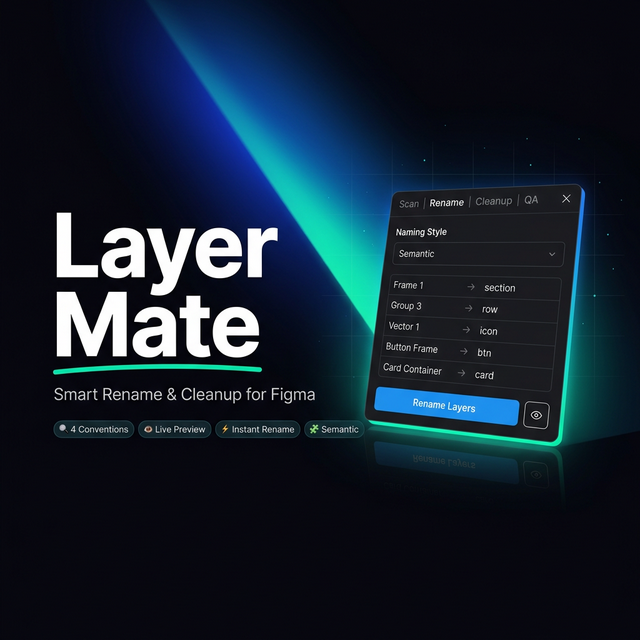
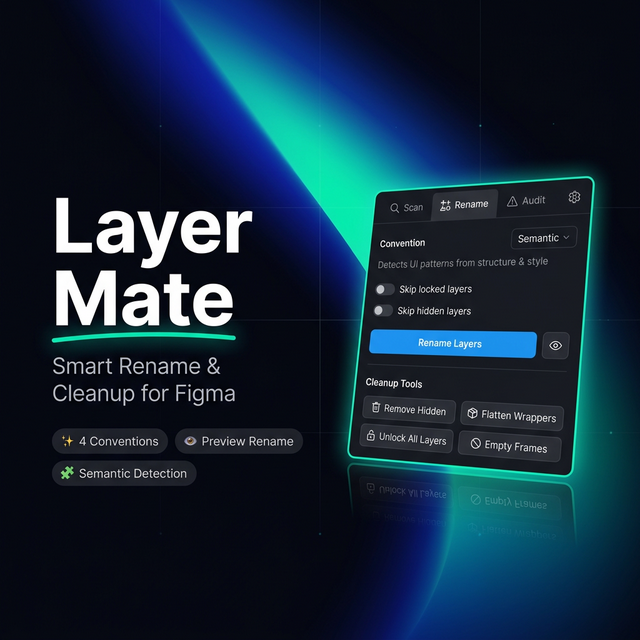
docs: accurate README + cover matching real UI
README fixes:
- Was: 4 tabs (Scan/Rename/Cleanup/QA) → Now: 3 tabs (Scan/Rename/Audit)
- Was: separate Cleanup tab → Now: Cleanup Tools inside Rename tab
- Was: 'QA Tab' → Now: 'Audit Tab' matching actual UI label
- Was: 'click Preview Rename big button' → Now: 'Rename Layers' is primary, 👁 is icon
- Added Filters section (Skip locked, hidden, Only rename defaults)
- Added Cleanup Tools table with all 4 buttons
- Added documentAccess technical detail

cover.png: regenerated to match actual UI (3 tabs, correct buttons,
Cleanup Tools grid visible, accurate convention dropdown)

diff --git a/README.md b/README.md
@@ -8,76 +8,98 @@
 
 ## 🎯 What It Does
 
-**Layer Mate** gives you 4 powerful tools in one compact panel:
+**Layer Mate** has 3 tabs + a Settings panel:
 
 | Tab | What It Does |
 |-----|-------------|
-| 🔍 **Scan** | Instant file health check — counts hidden, locked, unnamed & empty layers |
-| ✏ **Rename** | Smart layer renaming with 4 naming conventions + live Preview Rename |
-| 🧹 **Cleanup** | One-click removal of hidden layers, empty frames & redundant wrappers |
-| ✅ **QA** | Contrast audit, small fonts, touch targets & a visual health score |
+| 🔍 **Scan** | File health check — counts hidden, locked, unnamed & empty layers |
+| ✏ **Rename** | 4 naming conventions, Preview Rename, and Cleanup Tools |
+| 🛡 **Audit** | Contrast, small fonts, touch targets, detached colors & health score |
 
 ---
 
-## ✏ Naming Conventions
+## ✏ Rename Tab
 
-### 🧹 Auto Clean *(default)*
-Depth-based structural names — great for general cleanup.
+### Naming Conventions
+
+Choose from 4 conventions in the **Convention** dropdown:
+
+#### 🧹 Auto Clean *(default)*
+Depth-based structural names — smart cleanup for any file.
 ```
 Frame 1   →  item
 Group 3   →  container
 Section   →  section
-Page root →  block
 ```
 
-### 🤝 Dev Ready
-HTML semantic names — maps layers directly to web elements, perfect for developer handoff.
+#### 🤝 Dev Ready
+HTML semantic names — maps layers to web elements for developer handoff.
 ```
-Horizontal frame     →  nav/bar
-Full-width section   →  section/hero
-Vector shape         →  icon/close
-Image fill frame     →  img/banner
+Horizontal frame   →  nav
+Full-width section →  section
+Vector shape       →  icon
+Image fill frame   →  img
 ```
 
-### 📚 Library
-Figma slash notation — auto-groups variants for component libraries.
+#### 📚 Library
+Figma slash notation — groups variants for component libraries.
 ```
 ButtonPrimary  →  Button / Primary
 CardHero       →  Card / Hero
 ```
 
-### 🧩 Semantic *(new)*
-Detects real UI patterns from structure, shadow, stroke, and content — names that both designers and developers already know.
+#### 🧩 Semantic
+Detects real UI patterns from structure, shadows, strokes, and fills.
 
 | Layer structure | Name |
 |---|---|
 | Horizontal top-level frame | `top-bar` |
 | Narrow vertical frame | `side-panel` |
-| VECTOR node | `icon` |
+| VECTOR / shape node | `icon` |
 | Circle + image fill | `avatar` |
 | Small pill-shaped frame | `badge` |
-| Frame with drop shadow + image + content | `card` |
-| Frame with shadow, small, rounded | `popup` |
-| Bordered + large + rounded | `panel` |
-| Frame with fill + padding + short text | `btn` |
-| Same, with shadow | `cta-btn` |
+| Frame + shadow + image + content | `card` |
+| Frame + shadow, small, rounded | `popup` |
+| Frame + fill + padding + short text | `btn` |
 | Stroke + empty + short height | `input` |
 | Horizontal group | `row` |
 | Vertical group | `stack` |
 
 ---
 
-## 👁 Preview Rename
+### Filters
 
-Before applying any rename, click **Preview Rename** to see exactly what will change:
+- **Skip locked layers** — don't rename locked layers
+- **Skip hidden layers** — don't rename hidden layers
+- **Only rename defaults** — only rename layers with default names (Frame 1, Group 3…)
 
-1. Select your layers
+---
+
+### Rename Buttons
+
+- **Rename Layers** (big blue button) — applies rename immediately
+- **👁** (icon button) — opens Preview panel to see Before → After before applying
+
+### 👁 Preview Rename
+
+1. Select layers on canvas
 2. Choose a convention
-3. Click **👁 Preview Rename**
-4. Review the Before → After list in the slide-up panel
+3. Click **👁** to open the preview panel
+4. Review the Before → After list
 5. Click **Apply All** or **Cancel**
 
-Use **⚡** to rename directly without preview.
+---
+
+### Cleanup Tools
+
+Four quick-action buttons inside the Rename tab:
+
+| Button | Action |
+|---|---|
+| 🗑 Remove Hidden | Deletes all hidden layers in selection |
+| 📦 Flatten Wrappers | Removes redundant single-child frames |
+| 🔓 Unlock All Layers | Unlocks all locked layers in selection |
+| 🚫 Empty Frames | Removes empty frames and groups |
 
 ---
 
@@ -86,20 +108,11 @@ Use **⚡** to rename directly without preview.
 - Count **total, hidden, locked, unnamed** layers
 - Detect **empty frames** and **deeply nested** layers
 - Visual **File Health Score (0–100)**
-- Click any metric to **select affected layers** on canvas
+- Click any metric to **select those layers** on canvas
 
 ---
 
-## 🧹 Cleanup Tab
-
-- **Remove hidden layers** — safely delete non-visible layers
-- **Flatten wrappers** — ungroup redundant single-child frames
-- **Remove empty frames/groups**
-- **Unlock all layers** in selection
-
----
-
-## ✅ QA Tab
+## 🛡 Audit Tab
 
 - **Detached Color Audit** — find fills not linked to styles/variables
 - **Contrast Audit** — detect WCAG 2.1 AA failures
@@ -134,19 +147,20 @@ git clone https://github.com/antuhin/layer-mate.git
 layer-mate/
 ├── manifest.json   — Plugin configuration
 ├── code.js         — Backend (Figma Plugin API)
-└── ui.html         — UI (HTML + CSS + JS, inline)
+└── ui.html         — UI (HTML + CSS + JS, single file)
 ```
 
+- **documentAccess**: `dynamic-page` (current page only)
 - **Theme**: Respects Figma light/dark via `themeColors: true`
 - **Undo**: Full undo support on all rename actions
-- **Settings**: Preferences persisted via `figma.clientStorage`
+- **Persistence**: Last-used convention saved via `figma.clientStorage`
 
 ---
 
 ## 🛣 Roadmap
 
-- [ ] Export QA audit as Markdown
 - [ ] Multi-page scan support
+- [ ] Export Audit report as Markdown
 - [ ] Auto-link detached colors to nearest style
 - [ ] Naming consistency score in Scan tab
 
